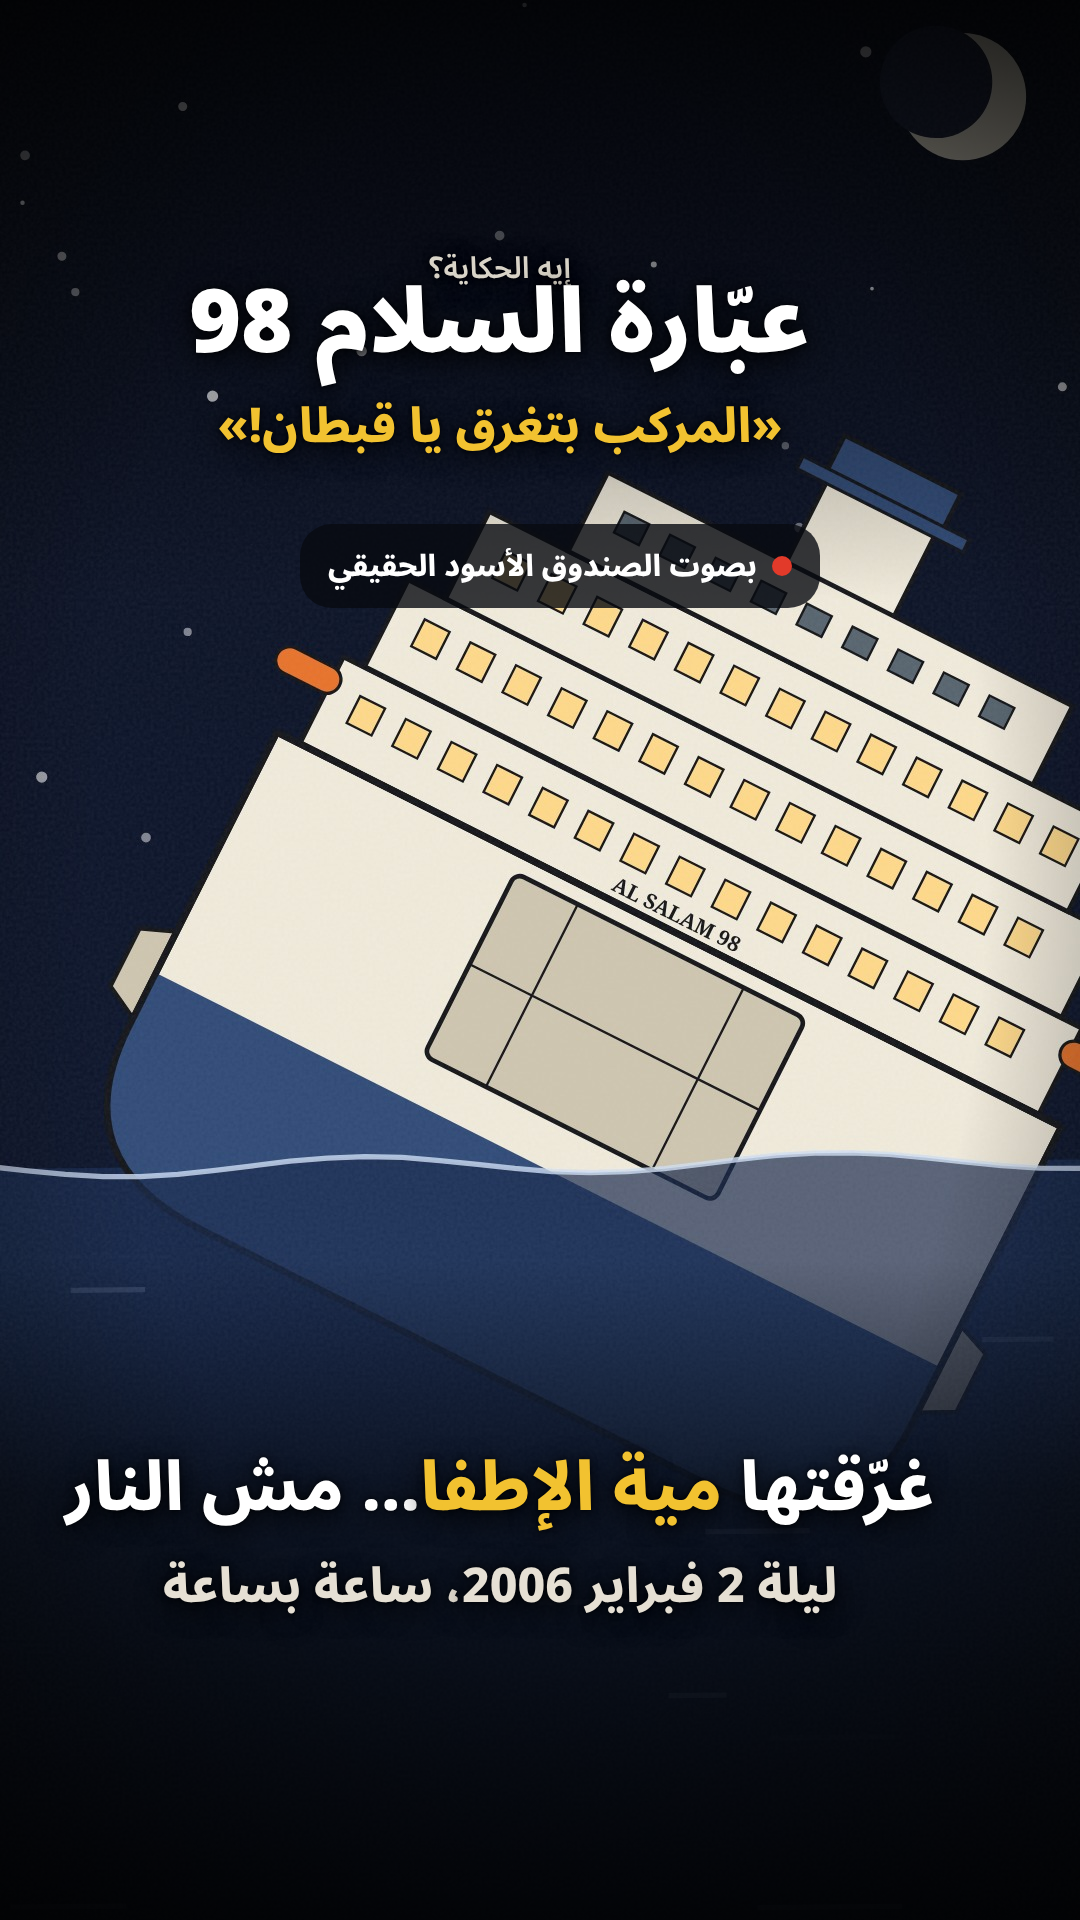
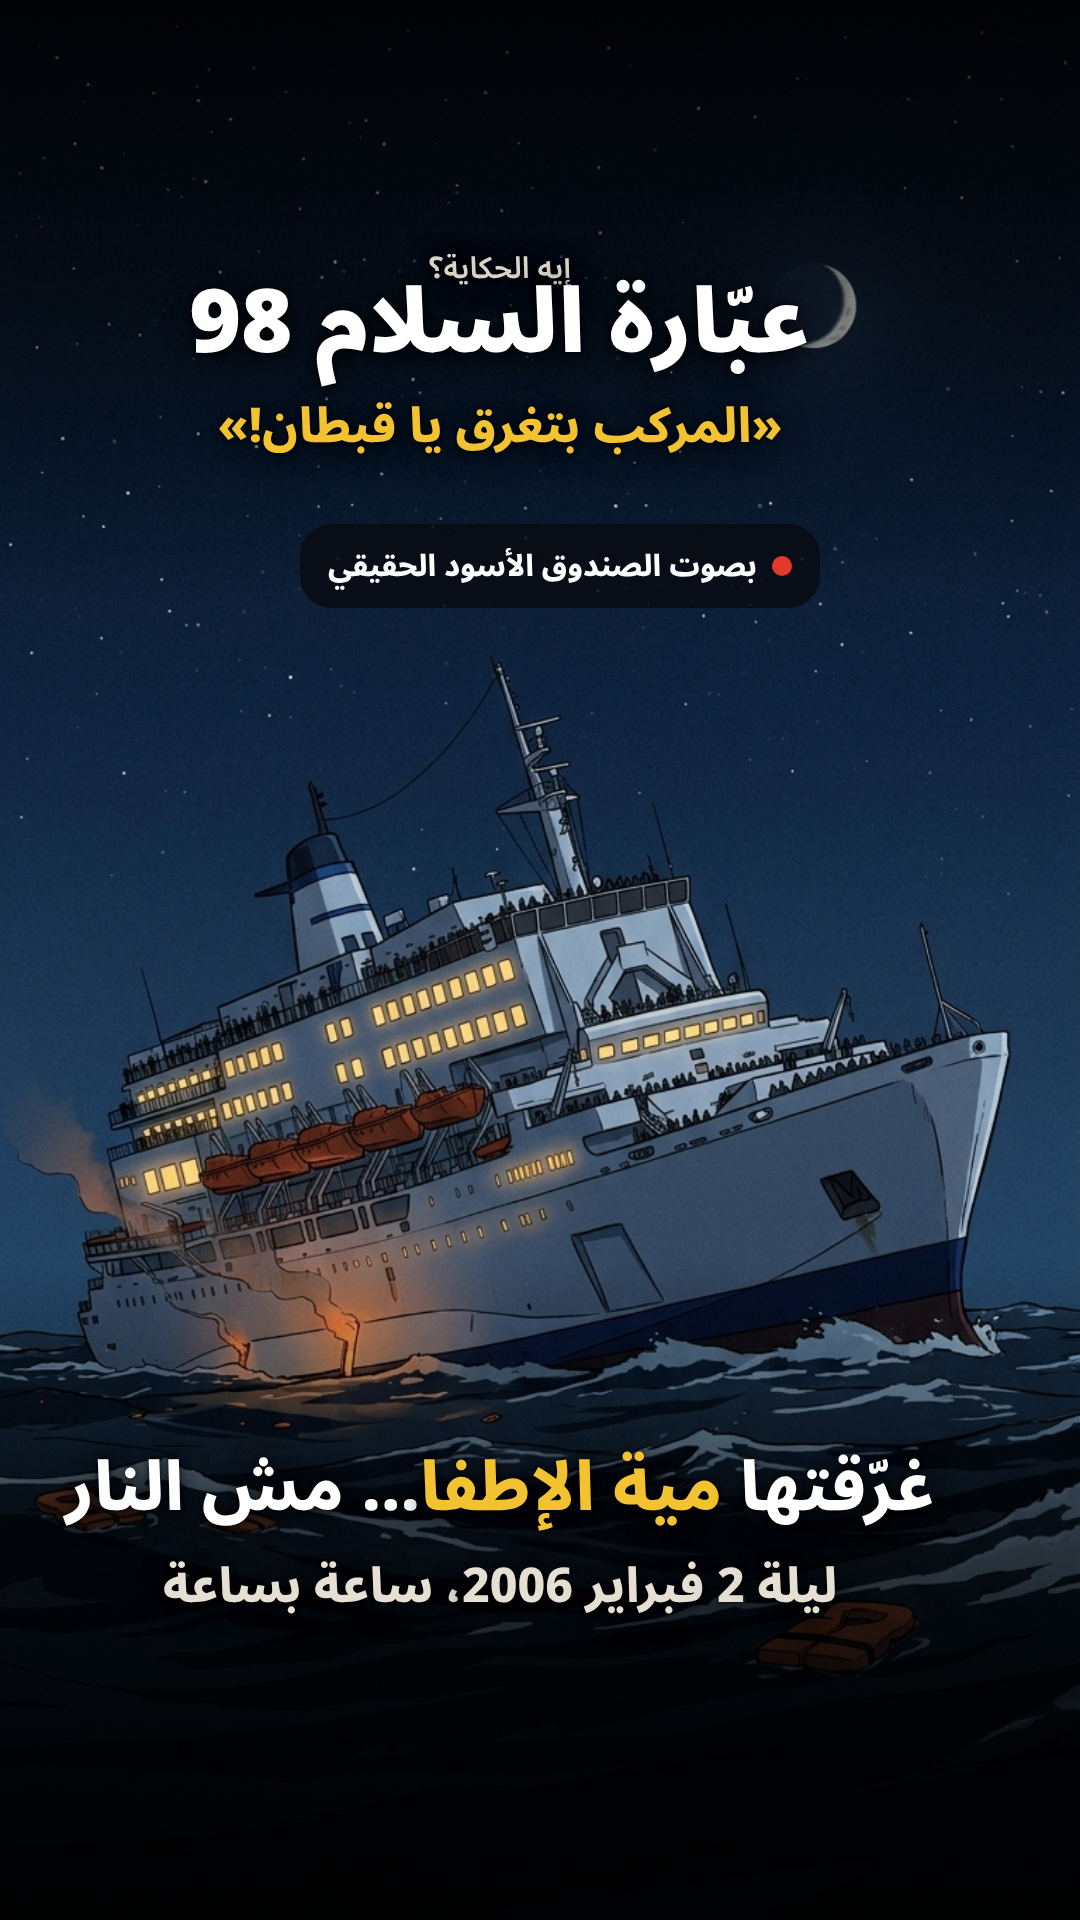
Salam 98 cover on the user's Gemini painting
Claude-Session: https://claude.ai/code/session_016TN7FJrdE8FJ8kGX1jW7bm

diff --git a/brand/eh-elhekaya/cover-salam98-tiktok.html b/brand/eh-elhekaya/cover-salam98-tiktok.html
@@ -1,8 +1,8 @@
 <!doctype html>
-<html lang="ar" dir="rtl"><head><meta charset="utf-8"><title>TikTok cover — عبّارة السلام 98</title>
+<html lang="ar" dir="rtl"><head><meta charset="utf-8"><title>TikTok cover — عبّارة السلام 98 (Gemini art)</title>
 <link href="https://fonts.googleapis.com/css2?family=Noto+Sans+Arabic:wght@600;800;900&display=swap" rel="stylesheet">
 <style>
-  /* the cover on a frame of the film (the ferry listing in the night, videos/salam98/film at 123.4 s): the picture fills the
+  /* the cover on the painting the user made in Gemini from the prompt written for it: the picture fills the
      frame, dark fades top and bottom carry the text. 540×960 at 2x; text inside the 3:4 crop (y 120–840). */
   body { margin: 0; background: #000; }
   .cover { position: relative; width: 540px; height: 960px; overflow: hidden; background: #000; }
